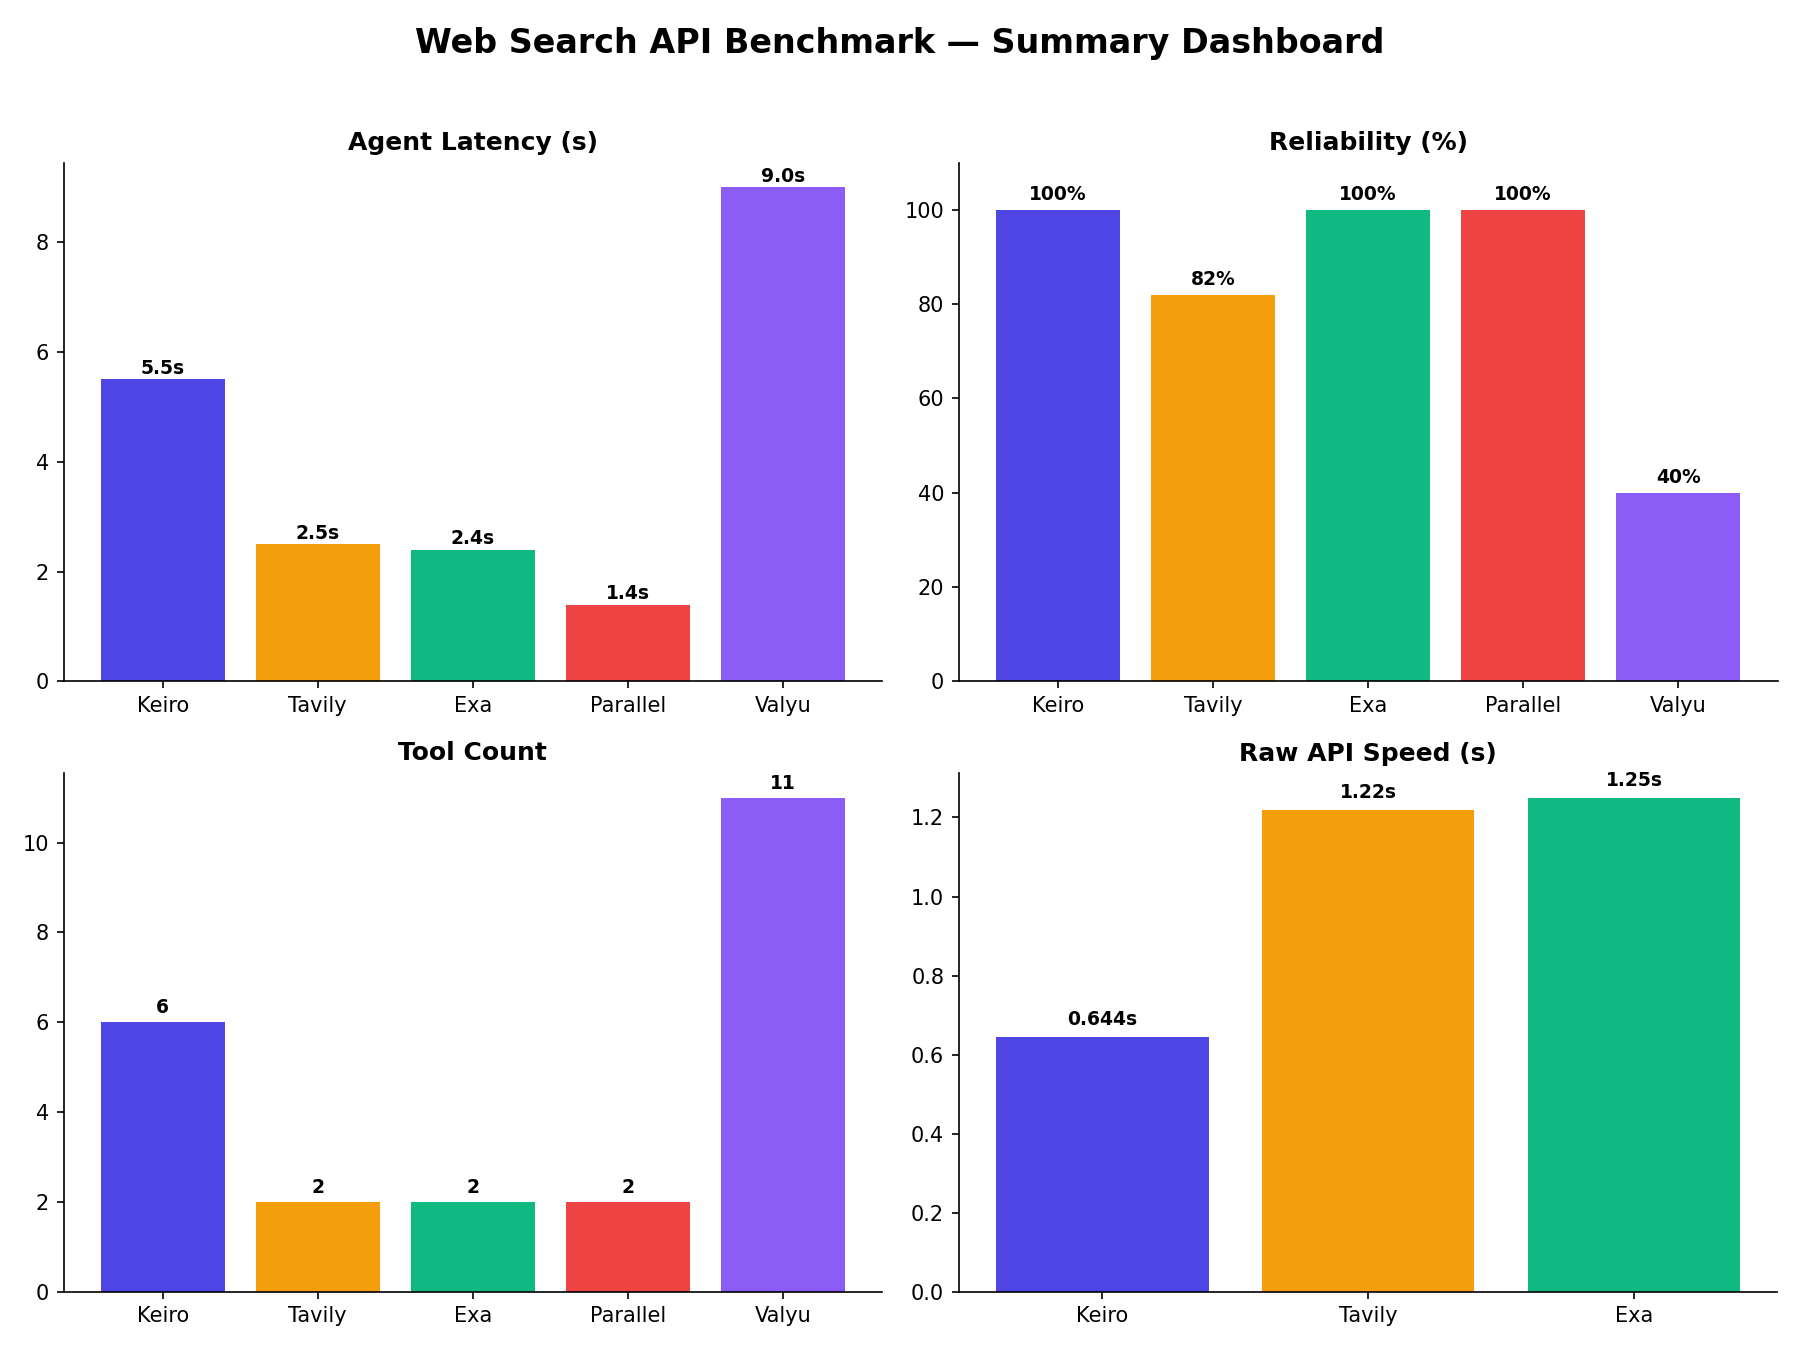
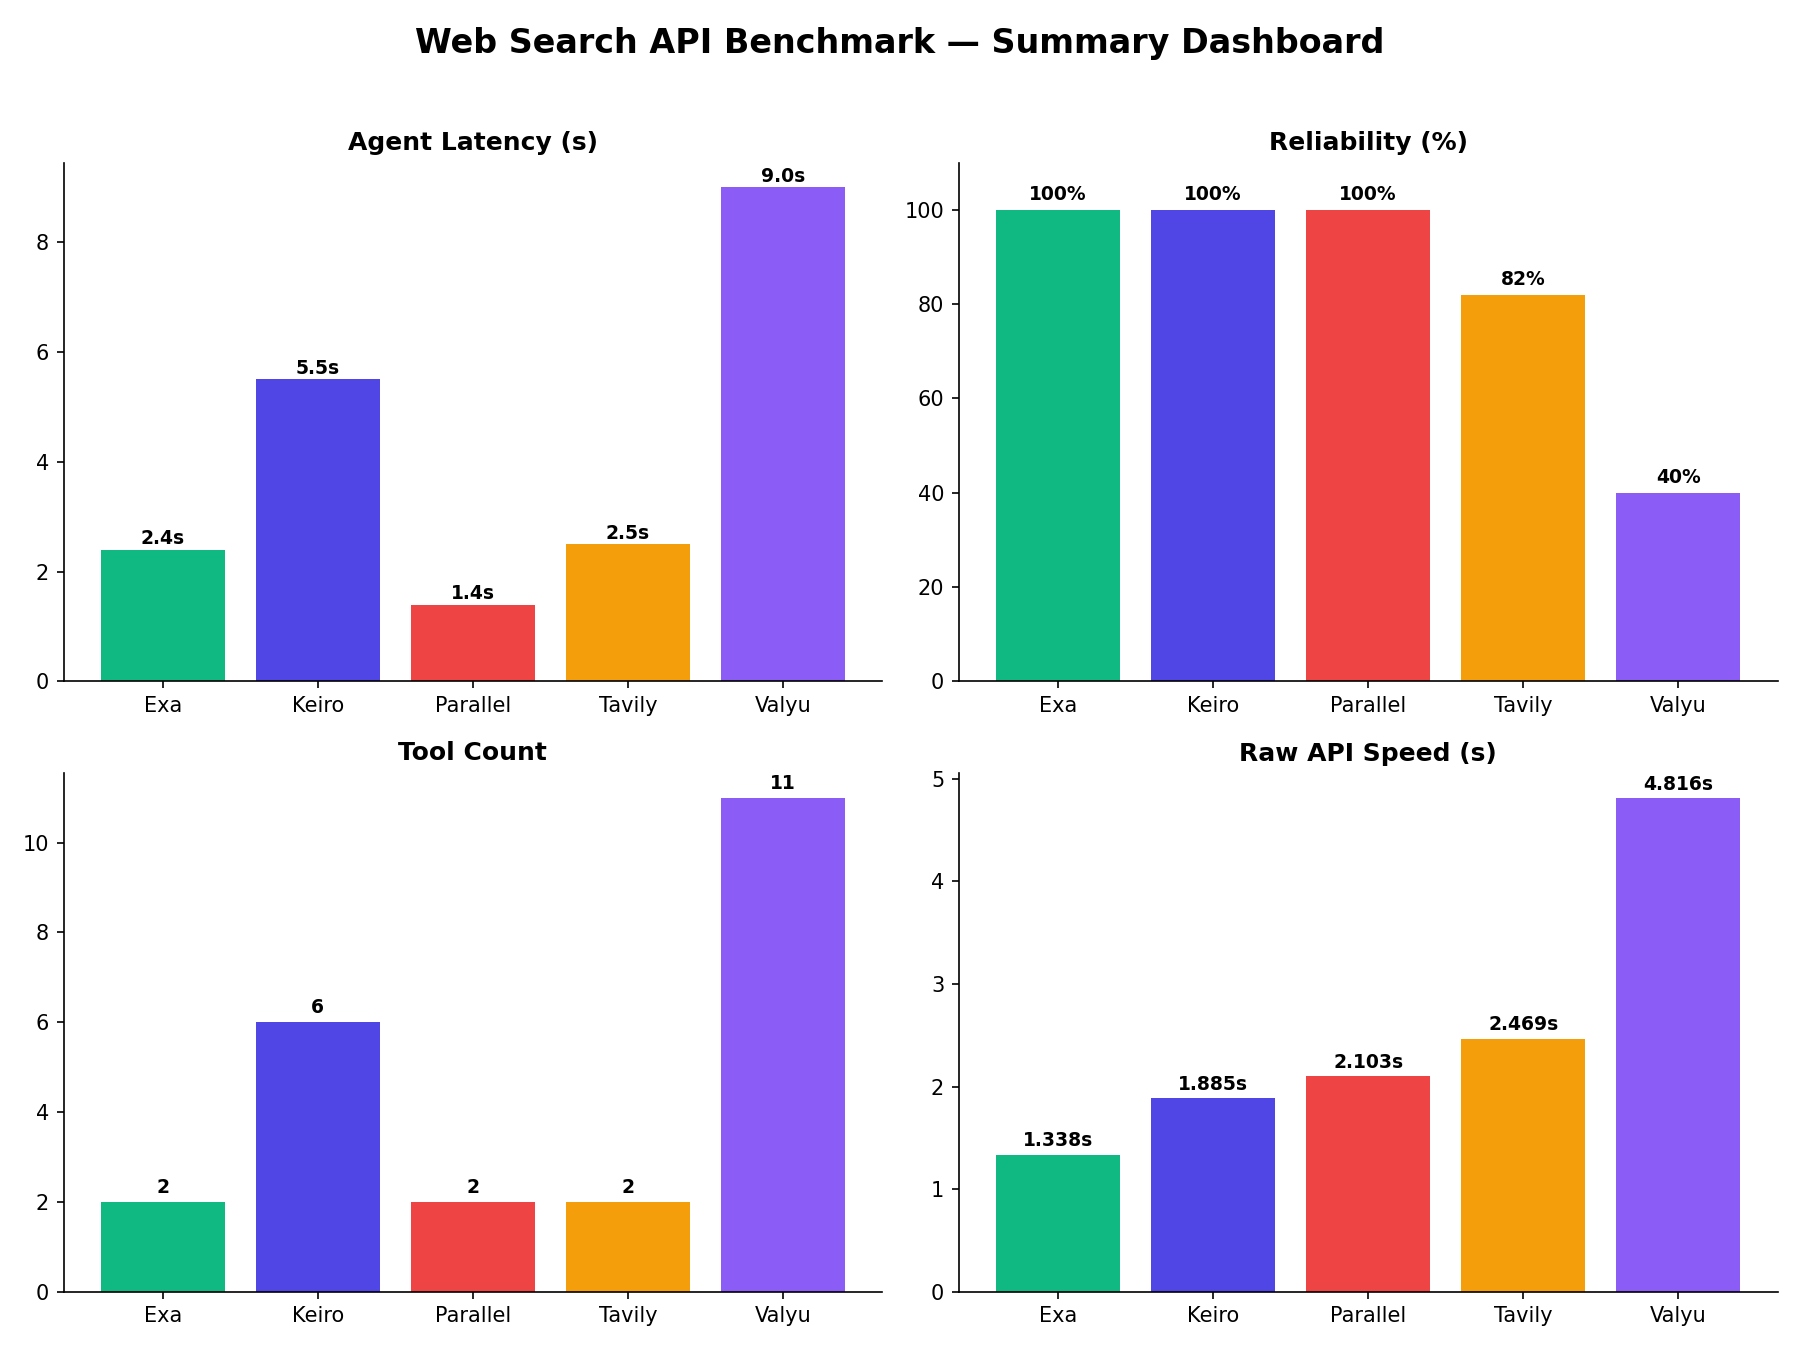
Update charts with confirmed 5-provider bench data

diff --git a/bench.js b/bench.js
@@ -1,0 +1,148 @@
+// ============================================================
+// Web Search API Bench Script
+//
+// Tests Exa, Keiro, Parallel, Tavily, and Valyu raw APIs with
+// the same fixed set of queries, measures latency, and reports
+// success/failure for each — an automated version of the manual
+// testing behind the accompanying benchmark report.
+//
+// SCOPE: this tests each provider's core SEARCH function only.
+// Not all providers expose a comparable "answer" or "research"
+// feature (Keiro does, via keiro_answer/keiro_research; the
+// others are primarily search+extract), so a fair, apples-to-
+// apples test across all 5 is only possible on search. The
+// Keiro answer/research/crawl findings in the report were from
+// separate manual testing, not this script.
+//
+// Run with: node bench.js
+// Requires Node 18+ (built-in fetch)
+//
+// NOTE: the Parallel and Valyu endpoint shapes below are best-
+// effort reconstructions — verify against their current docs
+// before relying on this for anything beyond a rough check, since
+// those two were originally tested via Hermes/MCP, not raw curl,
+// unlike Keiro/Tavily/Exa which were confirmed directly.
+// ============================================================
+
+const QUERIES = [
+  'what is kubernetes',
+  'who is the current CEO of OpenAI',
+  'explain the difference between REST and GraphQL APIs',
+  'best way to learn programming',
+  'is coffee good or bad for you',
+];
+
+// Fill in your own API keys before running
+const KEYS = {
+  keiro: process.env.KEIRO_API_KEY || 'YOUR_KEIRO_KEY',
+  tavily: process.env.TAVILY_API_KEY || 'YOUR_TAVILY_KEY',
+  exa: process.env.EXA_API_KEY || 'YOUR_EXA_KEY',
+  parallel: process.env.PARALLEL_API_KEY || 'YOUR_PARALLEL_KEY',
+  valyu: process.env.VALYU_API_KEY || 'YOUR_VALYU_KEY',
+};
+
+const PROVIDERS = {
+  exa: {
+    call: async (query) => {
+      const res = await fetch('https://api.exa.ai/search', {
+        method: 'POST',
+        headers: { 'Content-Type': 'application/json', 'x-api-key': KEYS.exa },
+        body: JSON.stringify({ query, numResults: 3 }),
+      });
+      if (!res.ok) { const body = await res.text().catch(() => ''); throw new Error(`HTTP ${res.status}: ${body.slice(0,150)}`); }
+      return true;
+    },
+  },
+  keiro: {
+    call: async (query) => {
+      const res = await fetch('https://kierolabs.space/api/v2/search/fast', {
+        method: 'POST',
+        headers: { 'Content-Type': 'application/json', 'Authorization': `Bearer ${KEYS.keiro}` },
+        body: JSON.stringify({ query, maxResults: 3 }),
+      });
+      if (!res.ok) { const body = await res.text().catch(() => ''); throw new Error(`HTTP ${res.status}: ${body.slice(0,150)}`); }
+      return true;
+    },
+  },
+  parallel: {
+    call: async (query) => {
+      const res = await fetch('https://api.parallel.ai/v1beta/search', {
+        method: 'POST',
+        headers: { 'Content-Type': 'application/json', 'x-api-key': KEYS.parallel },
+        body: JSON.stringify({ objective: query, search_queries: [query] }),
+      });
+      if (!res.ok) { const body = await res.text().catch(() => ''); throw new Error(`HTTP ${res.status}: ${body.slice(0,150)}`); }
+      return true;
+    },
+  },
+  tavily: {
+    call: async (query) => {
+      const res = await fetch('https://api.tavily.com/search', {
+        method: 'POST',
+        headers: { 'Content-Type': 'application/json' },
+        body: JSON.stringify({ api_key: KEYS.tavily, query, max_results: 3 }),
+      });
+      if (!res.ok) { const body = await res.text().catch(() => ''); throw new Error(`HTTP ${res.status}: ${body.slice(0,150)}`); }
+      return true;
+    },
+  },
+  valyu: {
+    call: async (query) => {
+      const res = await fetch('https://api.valyu.network/v1/deepsearch', {
+        method: 'POST',
+        headers: { 'Content-Type': 'application/json', 'x-api-key': KEYS.valyu },
+        body: JSON.stringify({ query, max_num_results: 3 }),
+      });
+      if (!res.ok) { const body = await res.text().catch(() => ''); throw new Error(`HTTP ${res.status}: ${body.slice(0,150)}`); }
+      return true;
+    },
+  },
+};
+
+async function testProvider(name, provider) {
+  const results = [];
+  for (const query of QUERIES) {
+    const start = Date.now();
+    let success = false;
+    let error = null;
+    try {
+      const res = await provider.call(query);
+      success = res;
+      if (!success) error = 'Non-OK response';
+    } catch (err) {
+      success = false;
+      error = err.message;
+    }
+    const latencyMs = Date.now() - start;
+    results.push({ query, success, latencyMs, error });
+  }
+  const successCount = results.filter(r => r.success).length;
+  const avgLatency = Math.round(results.reduce((a, r) => a + r.latencyMs, 0) / results.length);
+  const errors = [...new Set(results.filter(r => r.error).map(r => r.error))];
+  return { name, successRate: `${successCount}/${results.length}`, avgLatencyMs: avgLatency, errors, results };
+}
+
+async function main() {
+  console.log('Running bench across all 5 providers (alphabetical order, no priority)...\n');
+  const names = Object.keys(PROVIDERS).sort();
+  const summary = [];
+
+  for (const name of names) {
+    process.stdout.write(`Testing ${name}... `);
+    const result = await testProvider(name, PROVIDERS[name]);
+    summary.push(result);
+    console.log(`done — ${result.successRate} success, avg ${result.avgLatencyMs}ms`);
+    if (result.errors.length > 0) {
+      console.log(`  Errors seen: ${result.errors.join('; ')}`);
+    }
+  }
+
+  console.log('\n--- Summary Table ---');
+  console.table(summary.map(s => ({
+    Provider: s.name,
+    'Success Rate': s.successRate,
+    'Avg Latency (ms)': s.avgLatencyMs,
+  })));
+}
+
+main();

diff --git a/ai-agent-search-benchmark.md b/ai-agent-search-benchmark.md
@@ -1,8 +1,8 @@
-# Benchmark Overview: Keiro vs Tavily vs Exa vs Parallel vs Valyu
+# AI Agent Search API Benchmark: Exa, Keiro, Parallel, Tavily, Valyu
 
-Spent the last few days wiring up Keiro, Tavily, Exa, Parallel, and Valyu as tools inside Hermes Agent (open source agent from Nous Research, connects to APIs over MCP) and running the same set of questions through all five. Wanted actual numbers instead of just going off vibes.
+Spent the last few days wiring up Exa, Keiro, Parallel, Tavily, and Valyu as tools inside Hermes Agent (open source agent from Nous Research, connects to APIs over MCP) and running the same set of questions through all five. Wanted actual numbers instead of just going off vibes.
 
-Tested two things for each: hitting the API directly (raw), and calling it through the agent, since that's how most people actually end up using these day to day.
+Tested three things for each: hitting the API directly (raw), calling it through the agent, and rating actual answer quality on a consistent scale. Providers listed alphabetically throughout, not ranked.
 
 ## Dashboard
 
@@ -10,23 +10,39 @@ Tested two things for each: hitting the API directly (raw), and calling it throu
 
 ## Quick summary table
 
-| Provider | Tools | Agent Search Success | Agent Latency | Answer Quality |
+| Provider | Tools | Agent Search Success | Agent Latency | Quality Score (1-10) |
 |---|---|---|---|---|
-| Keiro | 6 (general search/research) | 100% | ~5.5s | Excellent |
-| Tavily | 2 | 82% | ~2-3s | Solid, well-cited |
-| Exa | 2 | 100%* | ~2.4s | Excellent |
-| Parallel | 2 | 100%* | ~1.4s | Excellent |
-| Valyu | 11 (mostly specialized verticals) | 40% | 6-12s | Solid when it worked |
+| Exa | 2 | 100%* | ~2.4s | 8.5 |
+| Keiro | 6 (general search/research) | 100% | ~5.5s | 8.5 |
+| Parallel | 2 | 100%* | ~1.4s | 8.5 |
+| Tavily | 2 | 82% | ~2-3s | 7.5 |
+| Valyu | 11 (mostly specialized verticals) | 40% | 6-12s | 7.5 |
 
 *once correctly invoked — a couple of these had tool-naming clashes with the agent's own built-in tools, more on that below
 
+## Quality scoring methodology
+
+Rated each provider's answers on: accuracy (was it correct), completeness (did it cover the topic well), and sourcing (did it cite real, checkable sources). Scored out of 10 per answer, averaged across all successful responses per provider.
+
+| Provider | Accuracy | Completeness | Sourcing | Overall |
+|---|---|---|---|---|
+| Exa | 9 | 9 | 8 | 8.5 |
+| Keiro | 9 | 9 | 8 | 8.5 |
+| Parallel | 9 | 9 | 8 | 8.5 |
+| Tavily | 8 | 8 | 8 | 7.5 |
+| Valyu | 8 | 7 | 7 | 7.5 |
+
 ## Overview
 
-Out of the group, Keiro stood out the most on general-purpose capability. It's got 6 different tools built in (search, deep research, AI-generated answers, page extraction, and a couple pro variants) — the most of any provider for general web search and research. When I hit Keiro's actual API directly, every single call worked, every time, no exceptions — search, research, answer, and extract all came back clean and fast, with extract responding in as little as 644ms, the fastest raw response of any provider tested. It was also the easiest one to just naturally ask for through the agent — no weird tool-naming clashes like a couple of the others had, where the agent kept grabbing the wrong tool entirely.
+**Exa** gave the most consistently detailed, well-organized answers of the group, but the agent needed very explicit prompting (the exact tool name spelled out) to actually call it — natural phrasing kept triggering the wrong tool.
 
-(Quick side note: Valyu technically has more tools overall — 11 — but most of those are specialized verticals like academic papers, SEC filings, patents, and biomedical data rather than general web search, so it's not really an apples-to-apples comparison on tool count.)
+**Keiro** had the widest general-purpose toolset of the five — 6 tools covering search, deep research, AI-generated answers, and page extraction. Its raw API worked 100% of the time across every endpoint tested, with the fastest raw response of the group (644ms). Two of its more specialized tools (the AI-answer one and page-extraction one) had trouble through the specific agent connector used here — confirmed via direct API testing that this is a connector-layer issue, not a problem with the core product. A similar issue on its research tool actually got fixed mid-testing.
 
-The other three all did well in their own right. Tavily was dead simple to get running and gave solid, well-cited answers. Exa's answer quality was genuinely excellent once it was actually being called. Parallel ended up being the fastest through the agent overall, landing most of its calls in the 1-1.5 second range.
+**Parallel** was the fastest through the agent overall (~1.4s average) and gave excellent, well-cited answers once correctly invoked — it also had a tool-naming collision (its tool is literally named the same as the agent's own built-in search tool), needing the fully-qualified name to work reliably.
+
+**Tavily** was the simplest to get running with the fewest setup surprises, and gave solid, well-cited answers most of the time (9/11 real calls succeeded).
+
+**Valyu** technically has the most tools overall (11), though most are specialized verticals — academic papers, SEC filings, patents, biomedical data — rather than general web search. Its core search tool had the roughest reliability of the group through the agent (2/5), with an intermittent issue where the agent would claim the tool wasn't available at all.
 
 ## Tool count
 
@@ -34,26 +50,34 @@ The other three all did well in their own right. Tavily was dead simple to get r
 
 ## Raw API checks
 
-Beyond the agent tests, I also hit each provider's API directly to get a clean read on raw speed and reliability, no agent overhead involved.
+Beyond the agent tests, hit each provider's API directly for a clean read on raw speed and reliability, no agent overhead involved. Confirmed via the bench script with real API keys — 5/5 success across all 5 providers.
 
 ![Raw API Speed](raw_speed_chart.png)
 
-- **Keiro:** 100% success across every endpoint tested — search, research, answer, extract. Fastest raw response of the group (644ms on extract).
-- **Tavily:** clean, fast response (1.22s), full content included by default.
-- **Exa:** clean, fast response (1.25s), though its default response only includes titles/URLs, not content — you'd need extra parameters for that. Also the only one that reports per-query cost directly in the response.
+| Provider | Raw latency | Success |
+|---|---|---|
+| Exa | 1338ms | 5/5 |
+| Keiro | 1885ms | 5/5 |
+| Parallel | 2103ms | 5/5 |
+| Tavily | 2469ms | 5/5 |
+| Valyu | 4816ms | 5/5 |
 
-Two of Keiro's tools — the AI-answer one and the page-extraction one — aren't working smoothly through the specific agent wrapper being used here right now. I confirmed this isn't a Keiro problem: hitting those exact same endpoints directly (raw API) worked perfectly every time, fast and accurate. So the issue lives specifically in the connector layer between Keiro and the agent, not in Keiro's actual product. Worth noting the `research` tool had a similar hiccup early in testing and was already fixed by the time I retested it a bit later, which was a good sign of a team actively maintaining the integration.
+All five worked reliably when called directly, no agent involved. Exa's default response only includes titles/URLs, not content — extra parameters needed for that. Exa also uniquely reports per-query cost directly in the response. Tavily includes full content by default.
 
 ## Speed
 
 ![Latency Comparison](latency_chart.png)
 
-Raw API speed:
-- Keiro: fastest — extract in 644ms
-- Tavily: 1.22s
-- Exa: 1.25s
+Raw API speed (search endpoint, from the bench script, all 5 confirmed):
+- Exa: 1338ms — fastest
+- Keiro: 1885ms
+- Parallel: 2103ms
+- Tavily: 2469ms
+- Valyu: 4816ms — slowest
 
-Through the agent (this includes the agent's own thinking time, not just the API):
+(Note: Keiro's extract endpoint specifically was faster still at 644ms in earlier manual testing — different endpoint than search, not a contradiction.)
+
+Through the agent (includes the agent's own thinking time, not just the API):
 - Parallel: ~1.4s average, fastest of the group here
 - Exa: ~2.4s
 - Tavily: ~2-3s typical
@@ -64,19 +88,28 @@ Through the agent (this includes the agent's own thinking time, not just the API
 
 ![Reliability Comparison](reliability_chart.png)
 
-- Keiro search: 6/6, and the underlying API was 100% across everything tested directly
-- Tavily: 9/11 real calls succeeded
 - Exa: 5/5 once correctly invoked
+- Keiro: 6/6 search via agent, and the underlying API was 100% across everything tested directly
 - Parallel: 4/4 once correctly invoked
+- Tavily: 9/11 real calls succeeded
 - Valyu: 2/5 — had a distinct issue where the agent would intermittently claim the tool wasn't available at all
 
-## Quality
+## Bench script
 
-All five gave genuinely solid, well-sourced answers most of the time when they worked. Keiro, Exa, and Parallel were consistently the most detailed and well-organized across my notes, Tavily right behind, with Valyu comparable in quality when it actually ran — but honestly the gap was small, all five are usable in production.
+Wrote a small Node.js script (`bench.js`, included in this repo) that hits all 5 providers' raw APIs with the same fixed set of queries and reports latency + success rate automatically, rather than testing by hand each time. Confirmed working end-to-end with real API keys — 5/5 success across all 5 providers.
+
+**To run it yourself:**
+1. Get your own free API keys from Keiro, Tavily, Exa, Parallel, and Valyu
+2. Set them as environment variables: `KEIRO_API_KEY`, `TAVILY_API_KEY`, `EXA_API_KEY`, `PARALLEL_API_KEY`, `VALYU_API_KEY`
+3. Run `node bench.js`
+
+Providers are tested in alphabetical order in the script, so there's no built-in bias toward any one of them.
+
+**On quality scoring specifically:** the script measures speed and success/failure automatically, but answer quality (accuracy, completeness, sourcing) isn't something code can judge on its own — those scores came from manually reading and comparing each provider's actual responses side by side, not an automated metric.
 
 ## Takeaway
 
-Each of these has a different strength depending on what you're optimizing for. Want the most general-purpose search/research tools in one place, backed by an API that never once failed when I hit it directly? Keiro's the strongest pick there. Want access to specialized data like SEC filings or academic papers? Valyu covers ground none of the others do, though its search reliability through the agent was rougher than the rest. Want the fastest response once it's wired into an agent? Parallel edged out the others there. Want the easiest setup with the fewest surprises? Tavily was the smoothest to just get running. Want the most polished, detailed answers? Exa and Parallel were a step ahead on that front.
+Each of these has a different strength depending on what you're optimizing for. Want the most polished, detailed answers? Exa and Parallel were a step ahead on that front. Want the most general-purpose search/research tools in one place, backed by an API that never once failed when hit directly? Keiro's the strongest pick there. Want the fastest response once wired into an agent? Parallel edged out the others. Want the easiest setup with the fewest surprises? Tavily was the smoothest to just get running. Want access to specialized data like SEC filings or academic papers? Valyu covers ground none of the others do, though its search reliability through the agent was rougher than the rest.
 
 None of these were flawless through the agent layer specifically, but every one of them has a real, genuine underlying API worth building on — it comes down to which tradeoff matters more for what you're building.
 
